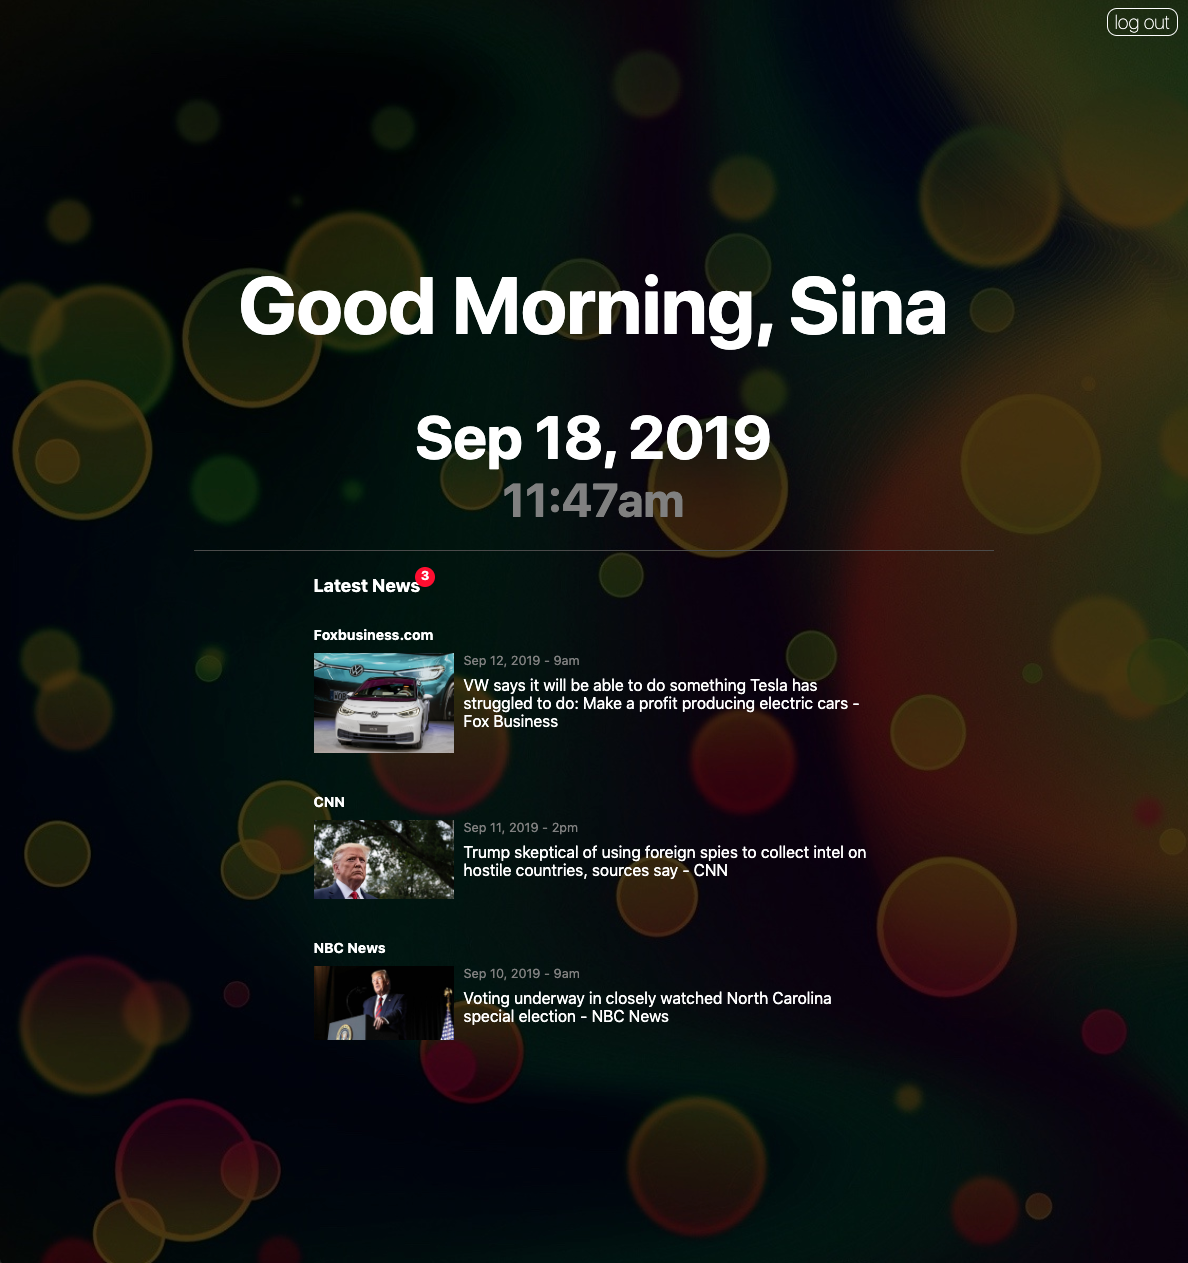
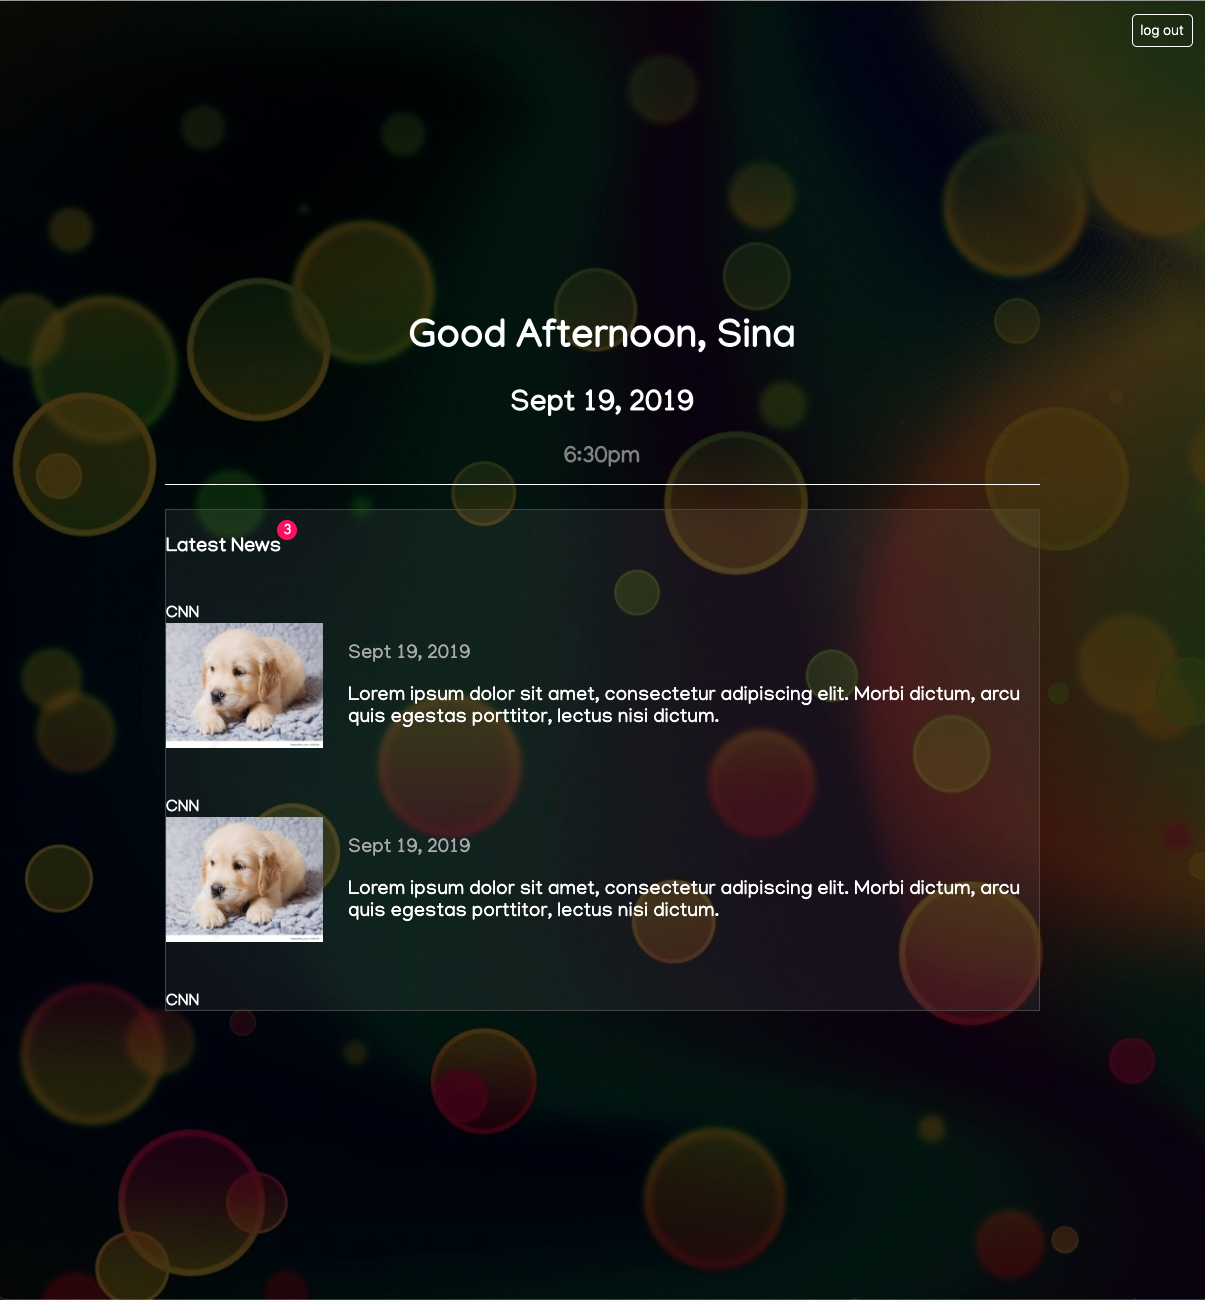
added the code for news page

diff --git a/exercises/greeting-news/index.html b/exercises/greeting-news/index.html
@@ -3,11 +3,83 @@
     <title>Greeting Login</title>
     <link rel="stylesheet" href="reset.css">
     <link rel="stylesheet" href="style.css">
+    <link href="https://fonts.googleapis.com/css?family=Manjari:100,400&display=swap" rel="stylesheet">
   </head>
+
   <body>
-    
-    <h1>Greeting News Page. GOOD LUCK!</h1>
     <!-- ADD YOUR HTML HERE -->
+    <main>
+
+        <button class="logout">log out</button>
+
+        <h1 class="normal italic">Good Afternoon, Sina</h1>
+        <h2 class="date">Sept 19, 2019</h2>
+        <h3 class="time">6:30pm</h3>
+
+        <section class="section--news">
+          <h4 class="news-category">Latest News <i class="notification">3</i></h4>
+
+          <ul>
+            <li class="news-item">
+              <h5 class="news-item__network">CNN</h5>
+              <div class="news-item__details">
+                <img  
+                    class="news-item__image"
+                    src="https://www.featurepics.com/StockImage/20081104/small-retriever-puppy-stock-image-953194.jpg"
+                  alt="">
+                <div>
+                  <p class="news-item__date">Sept 19, 2019</p>
+                  <p>Lorem ipsum dolor sit amet, consectetur adipiscing elit. Morbi dictum, arcu quis egestas porttitor, lectus nisi dictum.
+                  </p>
+                </div>
+              </div>
+            </li>
+
+            <li class="news-item">
+              <h5 class="news-item__network">CNN</h5>
+              <div class="news-item__details">
+                <img class="news-item__image"
+                  src="https://www.featurepics.com/StockImage/20081104/small-retriever-puppy-stock-image-953194.jpg" alt="">
+                <div>
+                  <p class="news-item__date">Sept 19, 2019</p>
+                  <p>Lorem ipsum dolor sit amet, consectetur adipiscing elit. Morbi dictum, arcu quis egestas porttitor, lectus nisi
+                    dictum.
+                  </p>
+                </div>
+              </div>
+            </li>
+
+            <li class="news-item">
+              <h5 class="news-item__network">CNN</h5>
+              <div class="news-item__details">
+                <img class="news-item__image"
+                  src="https://www.featurepics.com/StockImage/20081104/small-retriever-puppy-stock-image-953194.jpg" alt="">
+                <div>
+                  <p class="news-item__date">Sept 19, 2019</p>
+                  <p>Lorem ipsum dolor sit amet, consectetur adipiscing elit. Morbi dictum, arcu quis egestas porttitor, lectus nisi
+                    dictum.
+                  </p>
+                </div>
+              </div>
+            </li>
+
+            <li class="news-item">
+              <h5 class="news-item__network">CNN</h5>
+              <div class="news-item__details">
+                <img class="news-item__image"
+                  src="https://www.featurepics.com/StockImage/20081104/small-retriever-puppy-stock-image-953194.jpg" alt="">
+                <div>
+                  <p class="news-item__date">Sept 19, 2019</p>
+                  <p>Lorem ipsum dolor sit amet, consectetur adipiscing elit. Morbi dictum, arcu quis egestas porttitor, lectus nisi
+                    dictum.
+                  </p>
+                </div>
+              </div>
+            </li>
+          </ul>
+        </section>
+
+    </main>
 
   </body>
 </html>

diff --git a/exercises/greeting-news/style.css b/exercises/greeting-news/style.css
@@ -1,1 +1,100 @@
 /* Add your CSS here */
+body {
+  font-family: 'Manjari', sans-serif;
+  background-image: url(assets/bg.jpg);
+  background-size: cover;
+  display: flex;
+  flex-direction: column;
+  justify-content: center;
+  height: 100%;
+}
+
+main {
+  text-align: center;
+  color: white;
+  position: relative;
+  max-width: 700px;
+  margin-right: auto;
+  margin-left: auto;
+  box-sizing: border-box;
+  max-height: 100%;
+}
+
+button {
+  background: #ffffff00;
+  border: 1px solid white;
+  border-radius: 4px;
+  color: white;
+  padding: 6px;
+  font-weight: 100;
+  cursor: pointer;
+}
+
+button:hover {
+  background: white;
+  color: black;
+}
+
+.time {
+  border-bottom: 1px solid white;
+  padding-bottom: 10px;
+  color: grey;
+}
+
+.logout {
+  position: fixed;
+  top: 10;
+  right: 10px;
+}
+
+.notification {
+  position: absolute;
+  background: #ff005e;
+  width: 16px;
+  height: 16px;
+  line-height: 18px;
+  border-radius: 50%;
+  top: -13px;
+  font-style: normal;
+  right: -13px;
+  text-align: center;
+  font-size: 12px;
+}
+
+.section--news {
+  background: #ffffff0f;
+  border: 1px solid #444444;
+  overflow: scroll;
+  text-align: left;
+  max-height: 400px;
+}
+
+.news-category {
+  position: relative;
+  display: inline-block;
+}
+
+.news-item {
+  margin-bottom: 40px;
+}
+
+.news-item .date {
+  font-size: 10px;
+}
+
+.news-item__date {
+  color: darkgray;
+}
+
+.news-item__network {
+  margin: 0;
+}
+
+.news-item__details {
+  display: flex;
+}
+
+.news-item__image {
+  height: 100px;
+  margin-right: 20px;
+}

diff --git a/exercises/greeting-news/reset.css b/exercises/greeting-news/reset.css
@@ -1,1 +1,12 @@
 /* RESET ANY BROWSER CSS HERE */
+body {
+  margin: 0;
+}
+
+ul {
+  padding: 0;
+}
+
+li {
+  list-style: none;
+}
